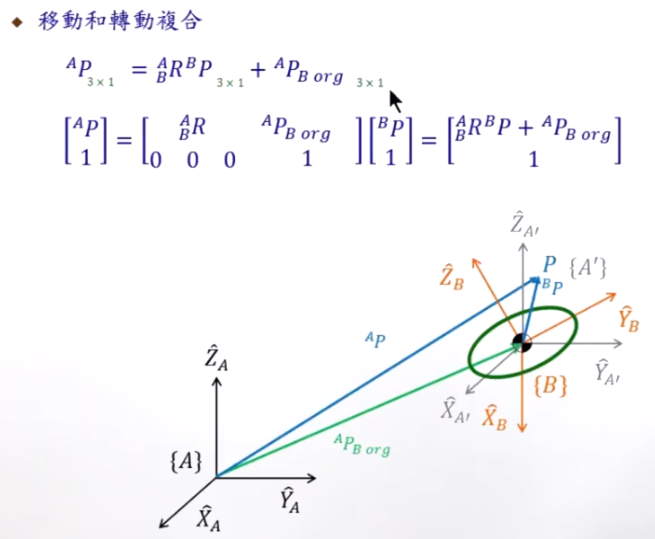
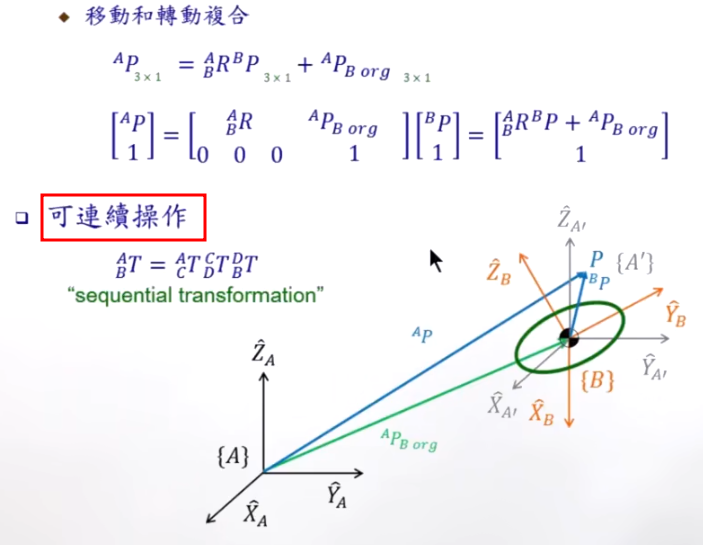
update

diff --git a/Robotics/Kinematics&Kinetics/robotics.md b/Robotics/Kinematics&Kinetics/robotics.md
@@ -114,11 +114,38 @@ Rigid Body 状态描述
    2. <img src="Pics/lpq016.png" width=500>
 
 
-**Homogeneous Transformation Matrix (T)**
+**Homogeneous Transformation Matrix (T)** 齐次变换矩阵
 1. 将 Rotation & Translation 整合 - 16个元素，6 DoF
    1. <img src="Pics/lpq017.png" width=350>
 2. **移动 & 旋转** 复合 (向量 先旋转、再平移)
    1. <img src="Pics/lpq018.png" width=500>
+3. Homogeneous Matrix 好处 - 可以进行连续变换
+4. **Homogeneous Transformation Matrix (T)** 的三种用法(类似于 Rotation Matrix 的三种用法)
+   1. <img src="Pics/lpq023.png" width=550>
+5. Transformation Matrix 运算
+   1. 连续运算 : 要注意 每个 frame 之间的 原点向量 需要 逐级变换到 参考系
+   2. <img src="Pics/lpq024.png" width=550>
+6. 逆矩阵
+   1. 旋转部分 : 求逆，也就是 转置
+   2. 平移部分 : ${}^B P_{A \ org}$，要达到 反向操作的效果，需要将 原点间距向量 ${}^A P_{B \ org}$ 取反(反向移回)，并从 {B} frame 进行表示 $- {}^B_A R \  {}^A P_{B \ org} = - {}^A_B R^T \  {}^A P_{B \ org}$
+   3. <img src="Pics/lpq025.png" width=600>
+7. 连续运算
+   1. 注意 : 求逆部分不需要直接求，使用上述逆矩阵的特性即可方便得到
+   2. <img src="Pics/lpq026.png" width=550>
+   3. <img src="Pics/lpq027.png" width=600>
+
+
+
+**Operators 算子** : Translation & Rotation & Transformation
+1. single 移动 & 旋转
+   1. <img src="Pics/lpq019.png" width=550>
+2. combined 移动 & 旋转
+   1. 先转动再移动 ≠ 先移动再转动(移动的向量也会被转动)
+   2. <img src="Pics/lpq020.png" width=550>
+3. frame 中的点运动 = frame 做反向运动 (CCW = counter-clock-wise, CW = clock-wise)
+   1. <img src="Pics/lpq021.png" width=550>
+   2. 感觉有点类似于 内旋，需要根据当前 frame 进行反向操作，而不是针对原始 frame - TODO
+   3. <img src="Pics/lpq022.png" width=550>
 
 
 
